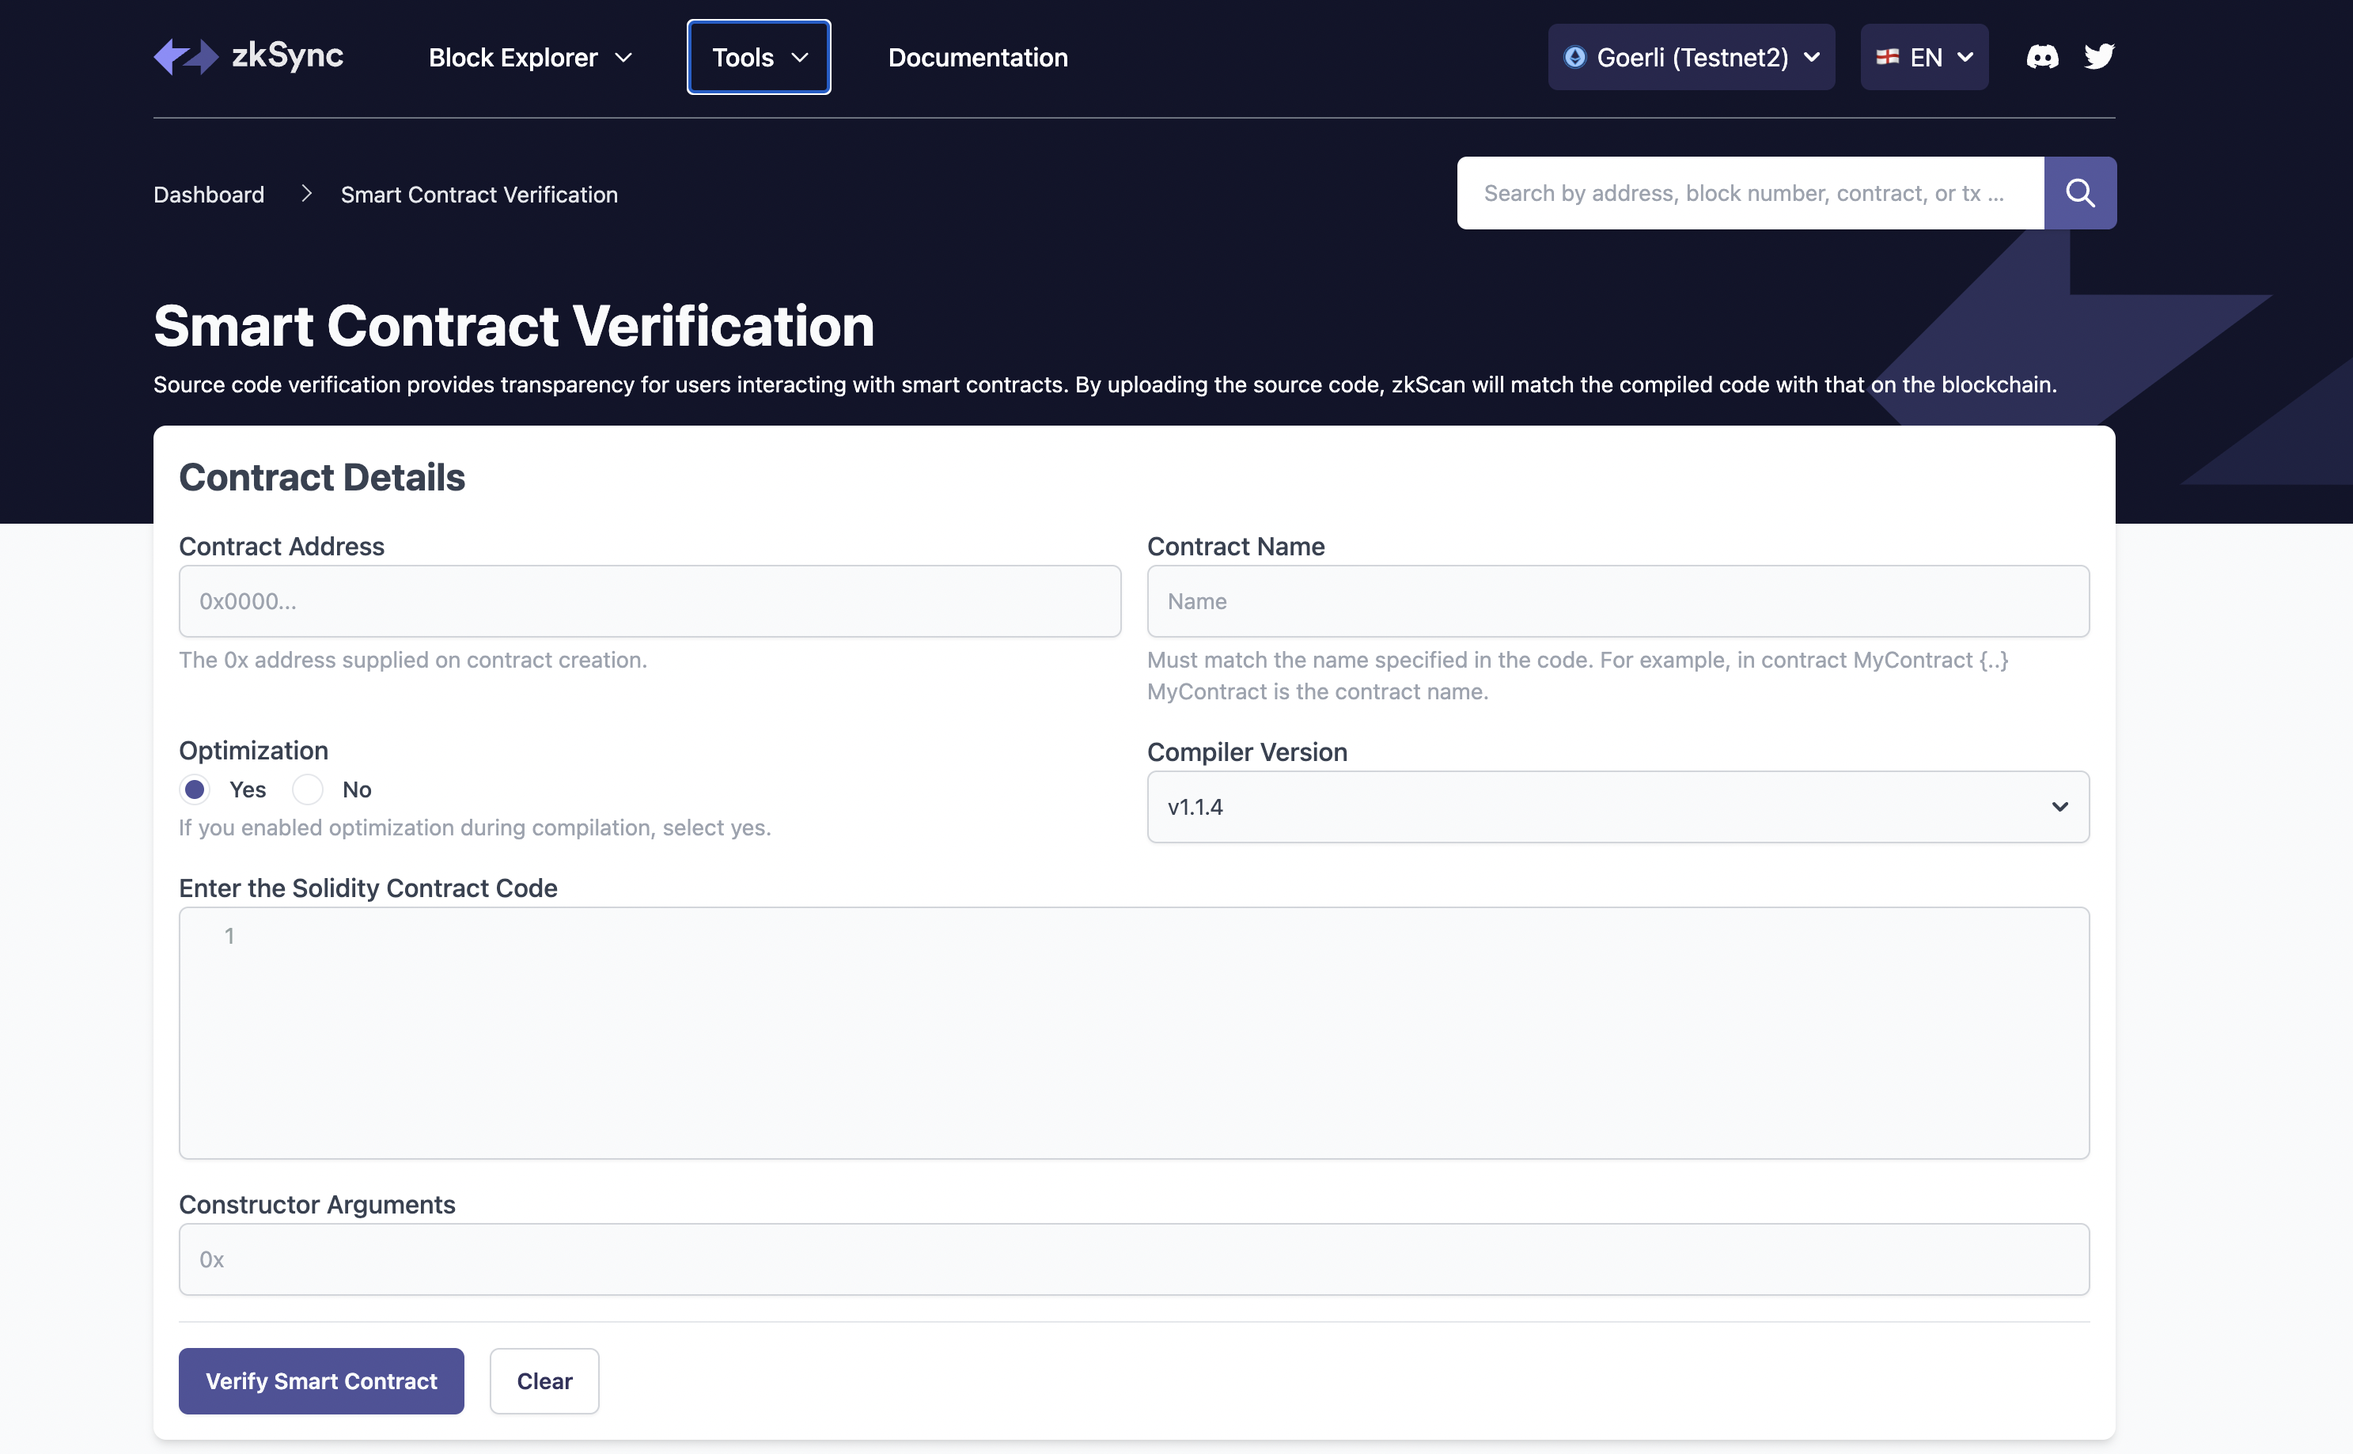
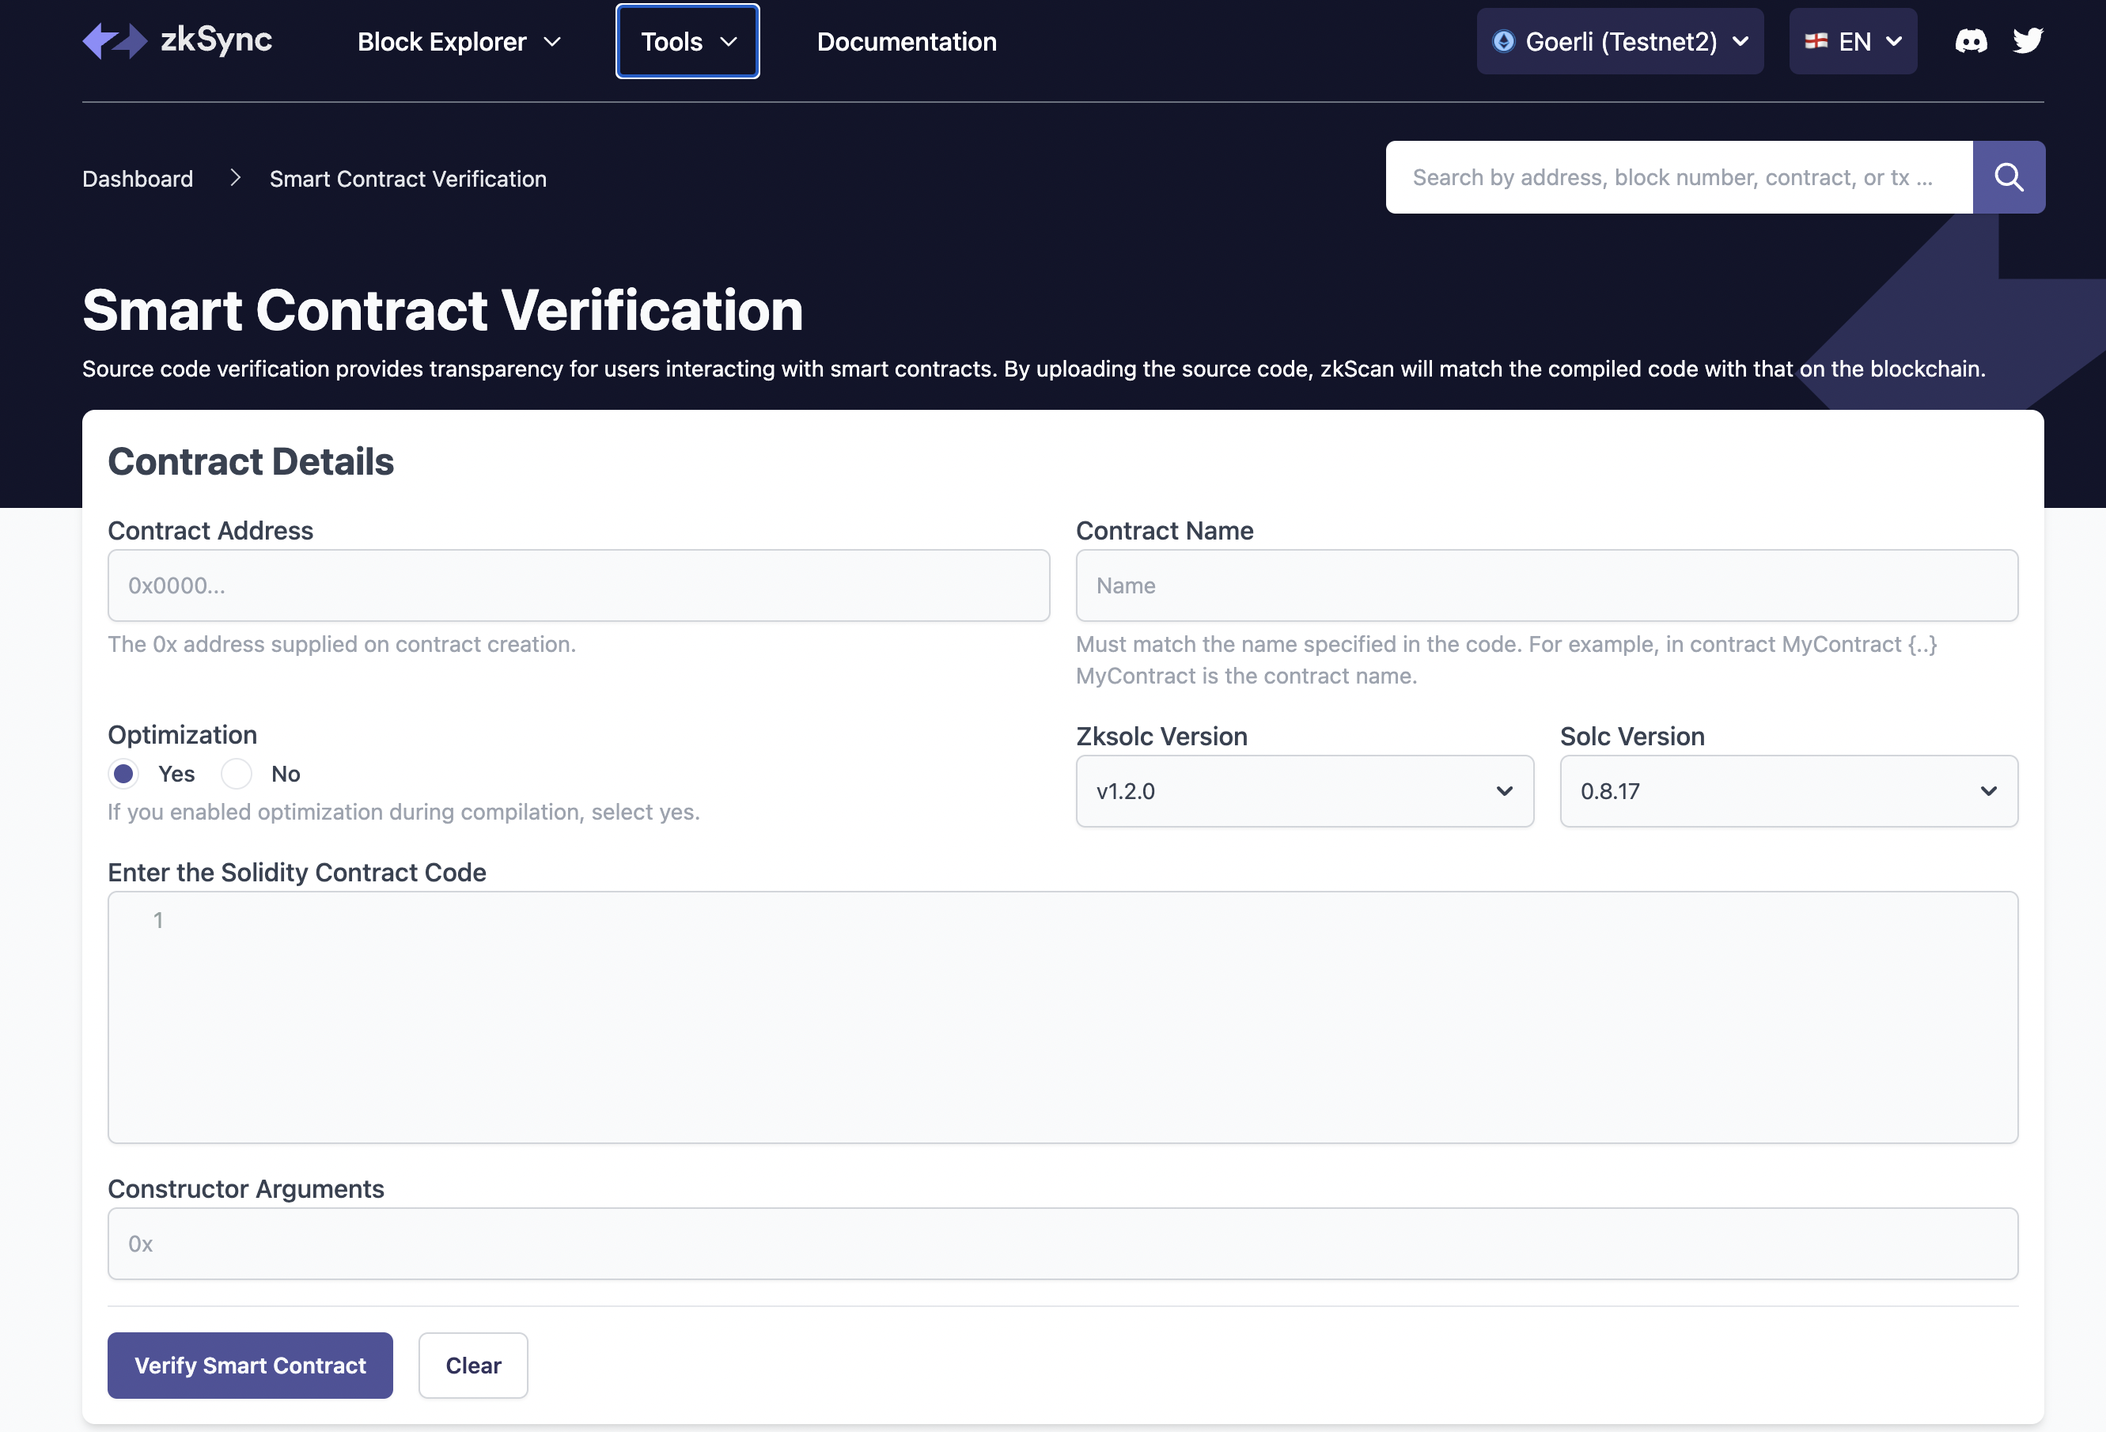
updated block explorer docs

diff --git a/docs/.vuepress/config.js b/docs/.vuepress/config.js
@@ -68,7 +68,7 @@ module.exports = {
             "/dev/developer-guides/hello-world.md",
             "/dev/developer-guides/contracts/system-contracts.md",
             "/dev/developer-guides/contracts/contracts.md",
-            "/dev/developer-guides/contracts/contract-verification.md",
+            "/api/tools/block-explorer/contract-verification.md",
             "/dev/developer-guides/transactions/transactions.md",
             "/dev/developer-guides/transactions/blocks.md",
             "/dev/developer-guides/transactions/aa.md",

diff --git a/docs/api/tools/block-explorer/search.md b/docs/api/tools/block-explorer/search.md
@@ -1,17 +1,17 @@
 # The search bar
 
 ## Overview
+Our user-friendly search tool gives you easy access to data from multiple search points and provides a more intuitive understanding of what you are searching for.
+
+![Search Bar!](../../../assets/images/search-bar.png "search bar")
 
 The main search bar is where you can look up something specific right away. As a block explorer user, you can perform a search for the following items:
 
-1. Blocks: block height (block number)
-2. Transactions: transaction hash/ID
-3. Wallets: wallet address
-4. Contract: contrcat address
+1. Blocks number: The number of the desired block for inspection. For example, enter `0` to see the contents of the chain’s genesis block. 
+2. Transactions hash/ID: The ID of a specific transaction. A transaction implies that byte code has been executed by the EVM. These include deployments of smart contracts and subsequent invocations.
+3. Wallet address: The wallet address of a sender or a receiver of a token, could be Ethereum, DAI, LINK, wBTC, or USDC.
+4. Contract address: The callable address of an Ethereum smart contract deployed on zkSync.
 
-This search bar is set to search the Ethereum blockchain by default, but you also can search the Ethereum or Litecoin blockchains by clicking on the small arrow and making your selection on the dropdown menu.
+One common use case that you can try on the block explorer is checking on the status of a transaction. This can be done by copying and pasting the transaction ID into the search bar. Users can also confirm whether the cryptocurrency they are waiting on has arrived yet by pasting their wallet address into the search bar, other use cases include searching for a contract address that has been deployed on zkSync.
 
-One common use case that you can try on the block explorer is checking on the status of a transaction. This can be done by copying and pasting the transaction ID into the search bar. Users can also confirm whether the cryptocurrency they are waiting on has arrived yet by pasting their wallet address into the search bar. (We always recommend the copy-and-paste method to prevent typing errors!).
-
-The block explorer will display the address and its most recent transactions, as well as all transactions that have been carried out to and from that address. Within a block, there can be thousands of approved transactions, so we do not recommend searching for a specific transaction by scrolling through the pages (of course, unless you want to!). However, if you are interested in the exact order of a transaction in comparison to another (in the same block), you can utilize other indicators such as the transaction amount, and the payment’s timestamp to point you to the correct transactions.
-
+In terms of transactions, the block explorer will display the address and its most recent transactions, as well as all transactions that have been carried out to and from that address. Within a block, there can be thousands of approved transactions. However, if you are interested in the exact order of a transaction in comparison to another (in the same block), you can utilize other indicators such as the transaction amount, and the payment’s timestamp to point you to the correct transactions.

diff --git a/docs/api/tools/block-explorer/block-view.md b/docs/api/tools/block-explorer/block-view.md
@@ -1,0 +1,55 @@
+# View Blocks
+
+![Block view!](../../../assets/images/block-tx.png "View blocks on zkSync")
+
+By default, the block explorer home screen displays the 5 most recent blocks on the chain. Click on a specific block number for information about that block, or View All Blocks for a more detailed overview of recent blocks. 
+The blocks page can also be accessed from the top menu.
+
+![Access the block page](../../../assets/images/block-menu.png "Blocks menu")
+
+## View all blocks
+
+The view all blocks page shows updated details from the most recent blocks. Use the pagination to navigate to the next page.
+
+However, if you have already left the homepage, you can always search for any Ethereum, DAI, LINK, wBTC, and USDC block by typing in the block number.
+Each block is packed with information. 
+
+![View all blocks](../../../assets/images/view-block.png "View all blocks")
+
+There are two main sections inside a block:
+
+1. The Block Header
+- This shows brief information about this specific block, as well as a link to the previous block in the chain.
+2. Transactions
+- Consists of lists of all the transactions that were included in this block. 
+
+![Single block page!](../../../assets/images/single-block.png "View a single block")
+
+### Block headers
+The following table should help explain what you’ll see in a block.
+For more details on blocks, see the docs on [Blocks](../../../dev/developer-guides/transactions/blocks.md).
+
+| Value            | Description      |
+| ----------------------- | --------- |
+| Block number            | The height on the chain.|
+| Block size              | The size of the block.  |
+| Timestamp               | The ISO timestamp when the block was created and was included in the blockchain.  |
+| Root hash               | The Cryptographic hash of the block header. |
+| status                  | The status of the block, could be `sealed`, `finalized`, or `unfinalized`.  |
+
+### Transactions
+
+This section lists all the transactions that are included in this block. 
+Transactions are chosen from the network mempool in order of highest fee first.
+
+| Value            | Description      |
+| ----------------------- | --------- |
+| Block                   | The the block containing the transaction.|
+| Timestamp               | The ISO timestamp when the transaction was created.  |
+| Hash                    | The hash of the transaction serving as the transaction’s ID |
+| From                    | The account sending the transaction. |
+| To                      | The account or smart contract the transaction targeted. |
+| Call data               | The function hash and 32 byte argument passed to the contract. |
+| Fee                     | The rate of fees collected by the network. |
+| Tokens transfered       | Details about the tokens(both `to` and `from` addresses) involved in the transactions, it includes, details like the assets, balance in the wallet address, and token address. |
+| Contract address        | The rate of fees collected by the network. |

diff --git a/docs/api/tools/block-explorer/intro.md b/docs/api/tools/block-explorer/intro.md
@@ -14,10 +14,13 @@ zkSync block explorer currently has indices for Ethereum, DAI, LINK, wBTC, and U
 
 Users and traders, who often buy and sell crypto can utilize the block explorer to check on the status of their transactions. Once users initiate a transaction, they will receive an automatically-generated transaction hash and can use it to look up details of the payment and whether it was successful or not.
 
-To assist users in using the block explorer, we have written this guide and will be highliting specific touch points in the block explorer, for an optimal learning experience. To start, you can open up https://scan-v2.zksync.dev/ in your web browser and follow along using the guide.
+To assist users and traders in using the block explorer and to enhance optimal learning experience, we have written this guide and will be highliting specific touch points in the block explorer:
+
+1. [Search bar](./search.md) - Search by wallet address, transaction hash, block number or contract address.
+2. [Block view](./block-view.md) - Get all the details about a block included in zkSync network.
+3. [Transaction view](./block-view.md#transactions) - Fetch and analyse the lists of transaction that occurs on-chain.
+4. [Smart contract verification](./contract-verification.md) - Verify smart contracts with zkSync block explorer.
+5. [zkEVM Debugger]() - Replay execution of your smart-contracts, and read each instruction.
+
+To start, you can open up https://scan-v2.zksync.dev/ in your web browser and follow along using the guide.
 Let’s take a look at the block explorer!
-
-
-## Conclusion(TO BE REMOVED, BEFORE PUSHING)
-
-Have fun on your blockchain journey! Our aim for the block explorer is a no-frills, user-friendly tool that gives you easy access to data from multiple search points, and provides a more intuitive understanding of what you’re searching for.

diff --git a/docs/dev/README.md b/docs/dev/README.md
@@ -17,7 +17,7 @@ If this is your first time using zkSync, we recommend that you kick off at the b
 
 - [Quickstart](./developer-guides/hello-world.md) - Learn how to build a full dApp using the zkSync development toolbox.
 - [Contract deployment](./developer-guides/contracts/contracts.md) - A guide on how to deploy smart contracts on zkSync.
-  - [Contract verification](./developer-guides/contracts/contract-verification.md) - A guide on how to verify smart contracts with zkSync block explorer.
+  - [Contract verification](../api/tools/block-explorer/contract-verification.md) - A guide on how to verify smart contracts with zkSync block explorer.
 - [System contracts](./developer-guides/contracts/system-contracts.md) - A brief overview of zkSync system contracts.
 - [Transactions](./developer-guides/transactions/transactions.md) - A guide on how zkSync handles transactions.
   - [Account abstraction](./developer-guides/transactions/aa.md) - Learn about account abstraction.
@@ -39,8 +39,7 @@ If this is your first time using zkSync, we recommend that you kick off at the b
 
 - Faucet, bridge, wallet - Explore our faucet, bridge and wallet feature.
 [zkSync 2.0 Portal](https://portal.zksync.io)
-- Block explorer - Search for real-time and historical information about blocks, transactions, addresses, and more on zkSync.
-[Explorer](https://zksync2-testnet.zkscan.io)
+- [Block explorer](./api/tools/block-explorer/) - Search for real-time and historical information about blocks, transactions, addresses, and more on zkSync.
 
 ### Examples and tutorials
 

diff --git a/docs/api/tools/block-explorer/zkevm.md b/docs/api/tools/block-explorer/zkevm.md
@@ -1,0 +1,24 @@
+## using zkEVM Debugger
+
+### Overview
+
+The downside of contract execution is that it is very hard to say what a transaction did. A transaction receipt does contain a status code to check whether execution succeeded or not, but there is no way to see what data was modified, nor what external contracts were invoked. zkSync resolves this by replaying the execution of your smart contracts and collecting data about precisely what was executed by the EVM, so you can read each instruction.
+
+The debugger page can also be accessed from the top menu.
+
+![zkEVM!](../../../assets/images/zk-evm.png "zkEVM page")
+
+### Debugging steps 
+
+The current state of the debugger is empty, because no file and been uploaded, the following are the steps to follow to debug or trace a transaction:
+
+1. Upload a JSON file:  Click on the `Upload JSON file` button and you will see a modal window with a saving prompt, or simply drag-and-drop the file into the upload dialog.
+2. File upload: A loader screen is shown to indicate that the trace file is loading.
+3. At a successful upload the debugger state changes to an active state.
+4. To proceed to debug, click on the `Start` button.
+
+These are some **keyboard shortcuts** to note when debugging.
+- `Cmd + K`: This opens the search bar.
+- `Arrows Left / Right`: This takes you to the next or previous instruction.
+- `Arrows Top / Bottom`: It takes you to the next previous function inside of this contract.
+- `Shift + Arrows`: It takes you to the next or previous contract

diff --git a/docs/api/tools/block-explorer/contract-verification.md b/docs/api/tools/block-explorer/contract-verification.md
@@ -46,7 +46,8 @@ To verify the contract, enter the following details;
 - Contract address: The address provided must match with the `0x` address supplied during contract creation.
 - Contract name: The name must be identical to the name provided in the contract.
 - Optimization: This checks whether or not optimization was used while compiling the contract, If you enabled optimization during compilation, check **Yes** otherwise select **No**
-- Compiler version: This specifies the exact version of the compiler used to compile a smart contract. Click on the dropdown to specify the compiler version used.
+- Solidity compiler version(Solc): This specifies the exact version of the compiler used to compile a smart contract. Click on the dropdown to specify the compiler version used.
+- zkSync compiler version(Zksolc): The zkSync compiler version used, the default is set to `v1.2.0`.
   
 <br>
 

diff --git a/docs/dev/developer-guides/hello-world.md b/docs/dev/developer-guides/hello-world.md
@@ -71,7 +71,7 @@ If this contract has already complied, you should delete the artifact and cached
 
 :::
 
-To learn how to verify your smart contract using zkSync block explorer, click [here](./contracts/contract-verification.md).
+To learn how to verify your smart contract using zkSync block explorer, click [here](../../api/tools/block-explorer/contract-verification.md).
 
 1. Create the `contracts` and `deploy` folders. The former is the place where all the contracts' `*.sol` files should be stored, and the latter is the place where all the scripts related to deploying the contract will be put.
 

diff --git a/docs/api/tools/block-explorer/README.md b/docs/api/tools/block-explorer/README.md
@@ -1,0 +1,10 @@
+# Block Explorer
+
+With zkSync block explorer, you retrieve comprehensive insights or search for a particular piece of information like transactions, blocks, wallet or contract address on the zkSync network, verify your smart contracts, utilize the zkEVM Debugger to replay the execution of your smart contracts, and read each instruction.
+
+## Table of contents
+
+- [Overview](./intro.md)
+- [Block View](./block-view.md)
+- [Contract verification](./contract-verification.md)
+- [zkEVM Debugger](./zkevm.md)

diff --git a/docs/dev/developer-guides/README.md b/docs/dev/developer-guides/README.md
@@ -6,8 +6,7 @@ Take a deeper dive into the zkSync ecosystem.
 
 - [Quickstart](./hello-world.md)
 - [System contract](./contracts/system-contracts.md)
-- [Contract deployment](./contracts/contracts.md) 
-- [Contract verification](./contracts/contract-verification.md)
+- [Contract deployment](./contracts/contracts.md)
 - [Transaction finality](./transactions/transactions.md)
 - [Account abstraction](./transactions/aa.md)
 - [Fee mechanism](./transactions/fee-model.md)
